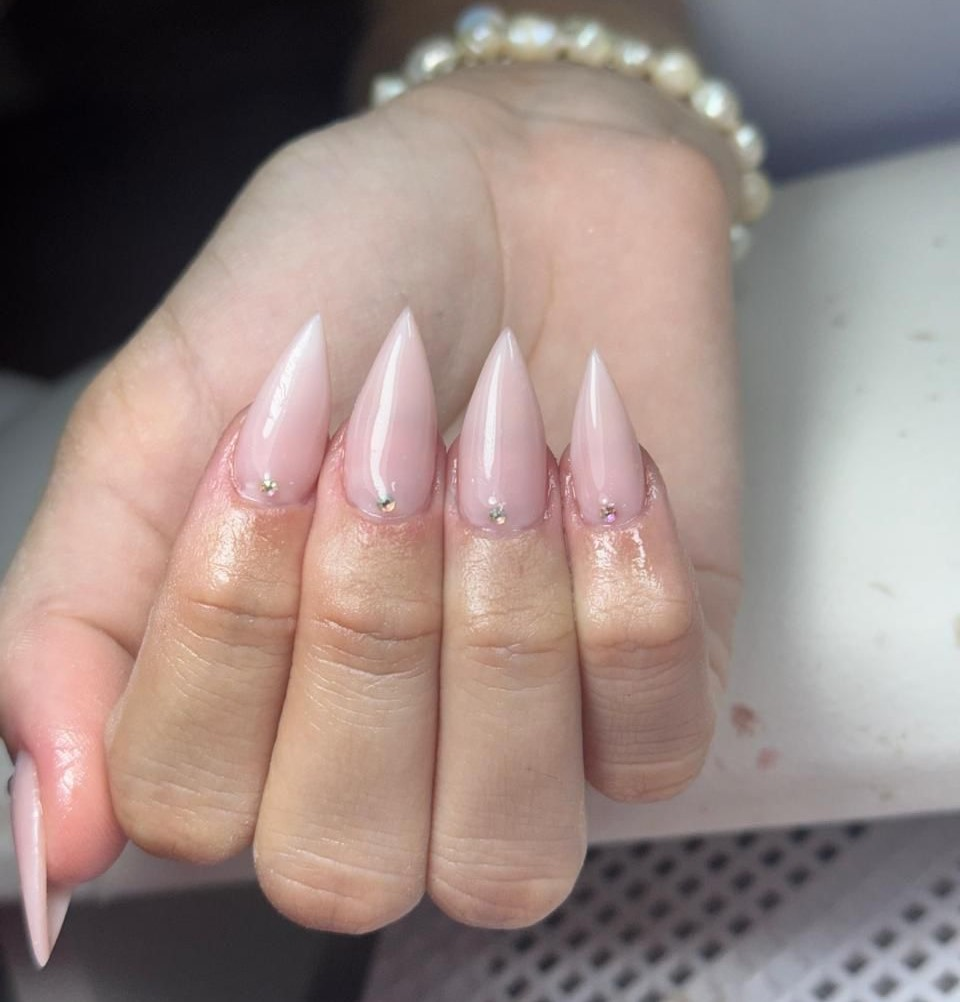
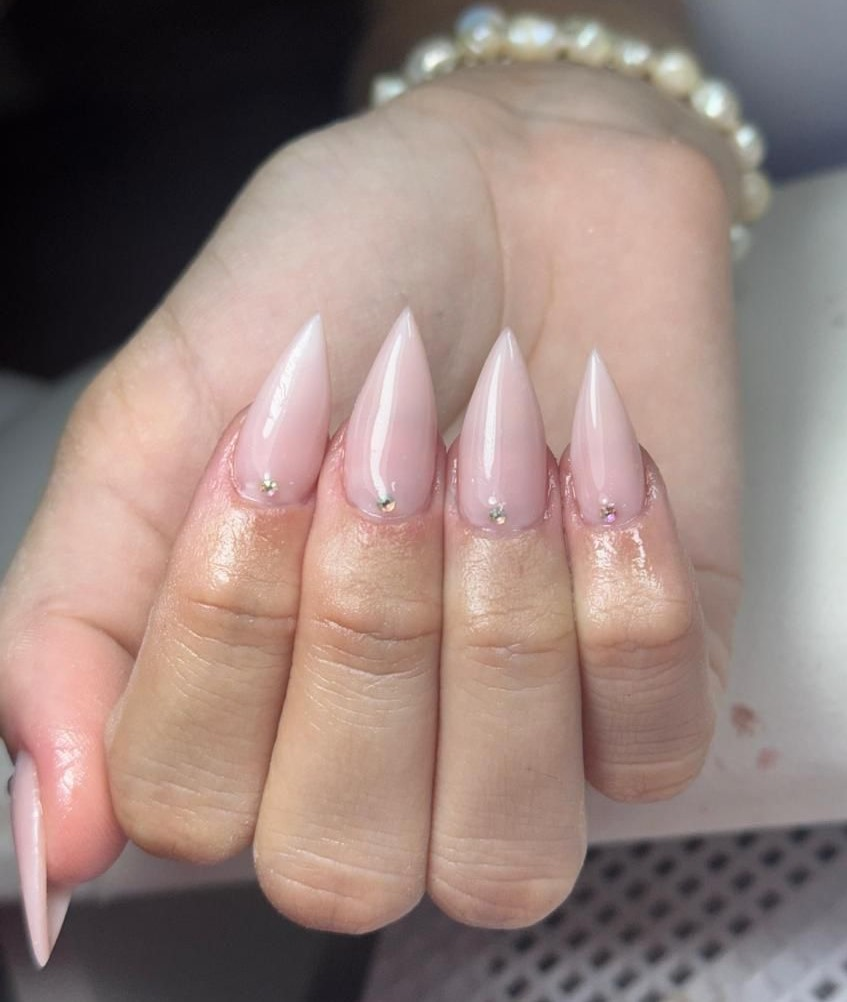
Add files via upload

diff --git a/index.html b/index.html
@@ -81,8 +81,8 @@
             <div class="flex flex-col md:flex-row items-center">
                 <div class="md:w-1/2 mb-8 sm:mb-10 md:mb-0 md:pr-6 lg:pr-10">
                     <div class="rounded-lg overflow-hidden shadow-xl h-62 sm:h-80 md:h-96">
-                        <img src="assets/img/img1.jpg" alt="Trabalho de unhas" class="w-full h-full object-cover"
-                            style="object-position: center 75%;">
+                        <img src="assets/img/imgabout.jpg" alt="Trabalho de unhas" class="w-full h-full object-cover"
+                            style="object-position: center 50%;">
                     </div>
                 </div>
                 <div class="md:w-1/2">
